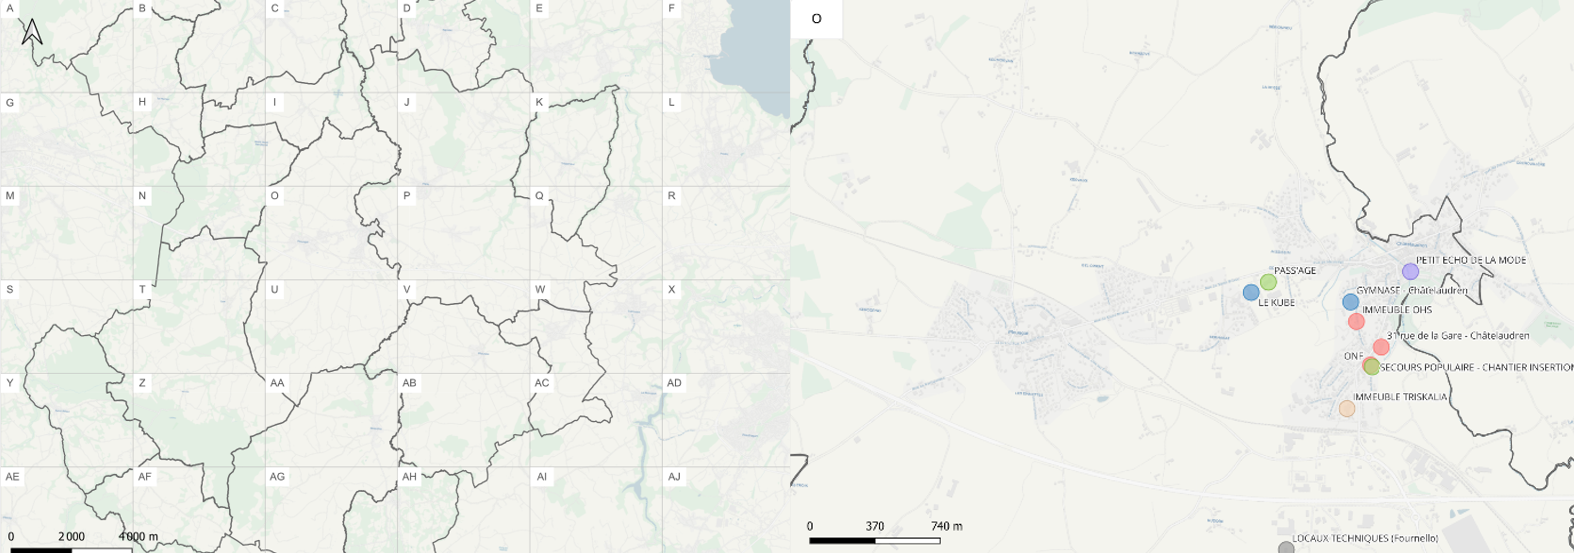
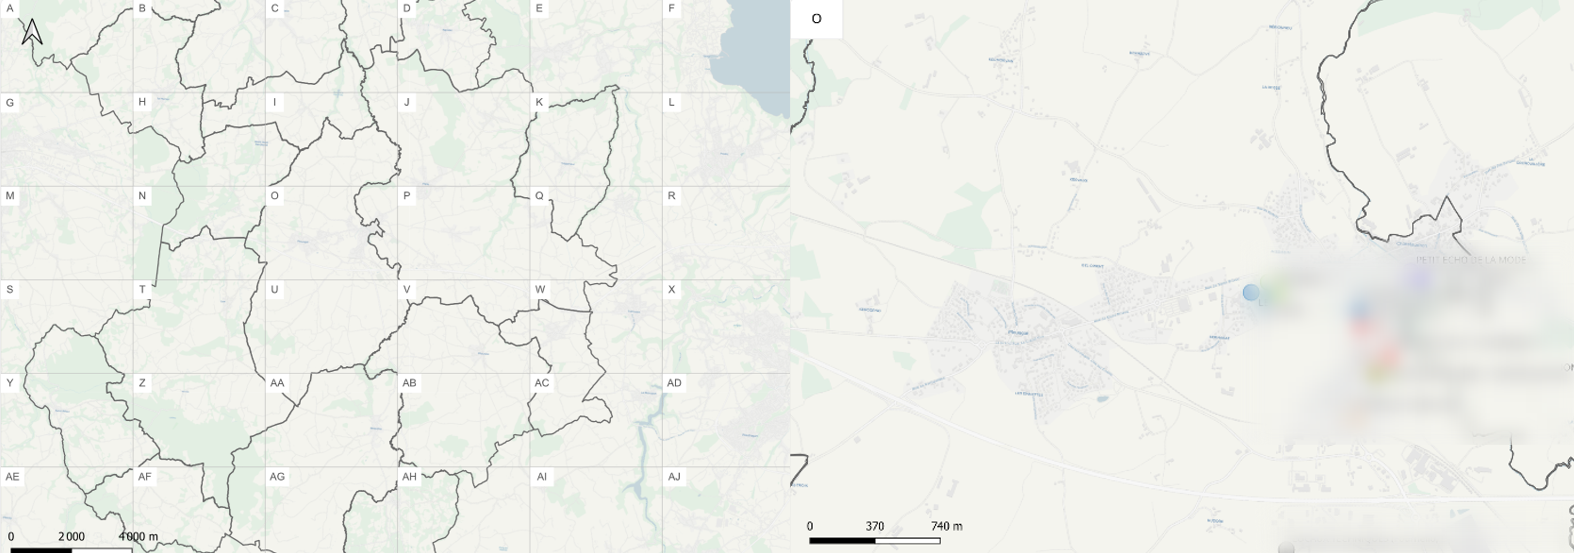
Anonymiser les 4 captures Egis (clients, communes, equipements, references de marches) + mention sur la page

diff --git a/experiences.html b/experiences.html
@@ -33,6 +33,8 @@
   <h1 class="page-title">Expériences en bureau d’études</h1>
   <p class="page-sub">Deux stages chez Egis, à Nantes (avril à août 2025) puis à Montreuil (mars à août 2026), quatre projets.</p>
 
+  <p class="project-note">Les cartes présentées ont été anonymisées : noms de clients, de communes, d’équipements et références de marchés ont été floutés. Seules la démarche et la production cartographique restent visibles.</p>
+
   <section class="project">
     <h2>Outil cartographique automatisé, patrimoine bâti</h2>
     <p class="context">Stage chez Egis, Nantes, avril à août 2025 – schéma directeur immobilier</p>
